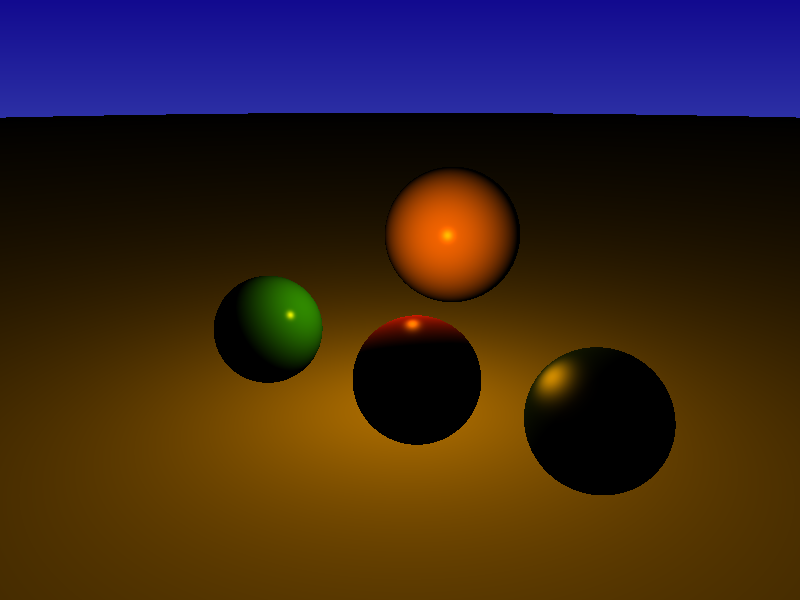
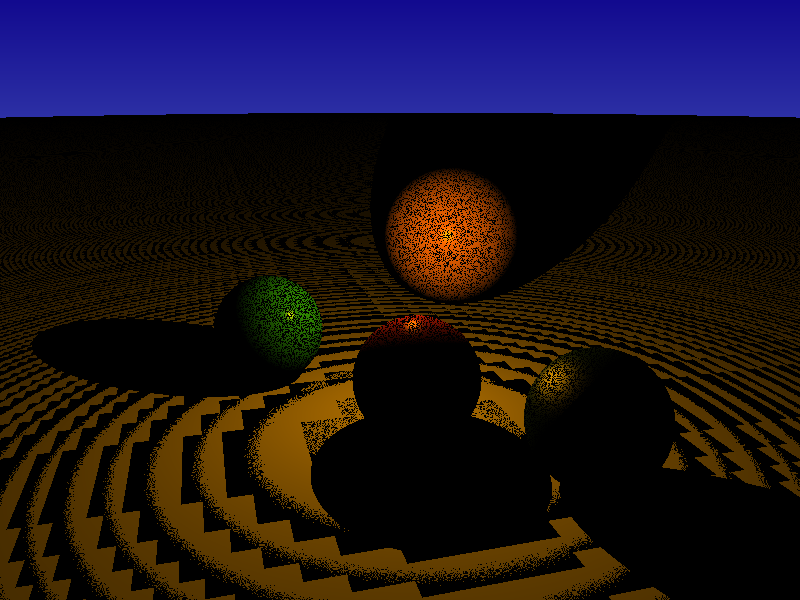
Project 7 done

diff --git a/include/bvhaccel.hpp b/include/bvhaccel.hpp
@@ -11,6 +11,9 @@ class LinearBVH{
 
         std::shared_ptr<Bounds3> box;
         std::shared_ptr<Bounds3> next;
+        bool leaf = false;
+
+        ~LinearBVH() = default;
 
 };
 
@@ -57,22 +60,46 @@ public:
             return false;
         }
 
-        bool hit_left = true;
-        bool hit_right =  false;
+        std::shared_ptr<BvhAccel> aux = std::make_shared<BvhAccel>();
+        aux->box = box;
+        aux->left = left;
+        aux->right = right;
 
-        if(left == nullptr and right == nullptr){
-            if(*box.get() == s->bound){
-                return false;
+        BvhAccel * father;
+        
+        while(aux->left != nullptr and aux->right != nullptr){
+            if(aux->left != nullptr and aux->left->box->intersect_p(r, &t_min, &t_max)){
+                father = aux.get();
+                aux = aux->left;
+            } else if (aux->right != nullptr and aux->right->box->intersect_p(r, &t_min, &t_max)) {
+                father = aux.get();
+                aux = aux->right;
             } else {
-                return box->geo->intersect_p(r);
+                return false;
             }
         }
 
-        hit_left = left->hit_p(r, t_min, t_max, s);
-        if(!hit_left){
-            hit_right = right->hit_p(r, t_min, t_max, s);
-        }
-        return hit_left || hit_right;
+
+        //std::cout << "Chegou aq" << std::endl;
+        return aux->box->geo->intersect_p(r);
+
+
+        // bool hit_left = true;
+        // bool hit_right =  false;
+
+        // if(left == nullptr and right == nullptr){
+        //     if(*box.get() == s->bound){
+        //         return false;
+        //     } else {
+        //         return box->geo->intersect_p(r);
+        //     }
+        // }
+
+        // hit_left = left->hit_p(r, t_min, t_max, s);
+        // if(!hit_left){
+        //     hit_right = right->hit_p(r, t_min, t_max, s);
+        // }
+        // return hit_left || hit_right;
         
     }
 
@@ -83,7 +110,7 @@ public:
     std::shared_ptr<Bounds3> box = nullptr;
     //std::vector<std::shared_ptr<GeometricPrimitive>> g;
 
-    void printBVH()
+    void printBVH(int &i)
     {
         if (left == nullptr and right == nullptr)
         {
@@ -95,8 +122,9 @@ public:
         }
 
         if (left != nullptr)
-        {
-            left->printBVH();
+        {   
+            int c = 0;
+            left->printBVH(c);
             // std::cout << "Imprimindo box" << std::endl;
             // left->box->pMin.print();
             // left->box->pMax.print();
@@ -104,8 +132,9 @@ public:
         }
 
         if (right != nullptr)
-        {
-            right->printBVH();
+        {   
+            i+=1;
+            right->printBVH(i);
             // std::cout << "Imprimindo box" << std::endl;
             // right->box->pMin.print();
             // right->box->pMax.print();
@@ -113,34 +142,25 @@ public:
         }
     }
 
-    void LinearizeBVH(std::vector<std::shared_ptr<LinearBVH>> linear)
+    void LinearizeBVH(BvhAccel node, std::vector<LinearBVH> linear)
     {
-        std::shared_ptr<LinearBVH> l = std::make_shared<LinearBVH>();
-        l->box = box;
-
-        if (left != nullptr)
-        {
-            std::cout << "ADICIONOU LEFT" << std::endl;
-            left->LinearizeBVH(linear);
-            // std::cout << "Imprimindo box" << std::endl;
-            // left->box->pMin.print();
-            // left->box->pMax.print();
-            // std::cout << "finalizando box" << std::endl;
+        
+        if(node.box == nullptr){
+            return;
         }
 
-        if (right != nullptr)
-        {
-            l->next = right->box;
-            std::cout << "ADICIONOU RIGHT" << std::endl;
-            right->LinearizeBVH(linear);
-            // std::cout << "Imprimindo box" << std::endl;
-            // right->box->pMin.print();
-            // right->box->pMax.print();
-            // std::cout << "finalizando box" << std::endl;
+        LinearizeBVH(*node.left.get(), linear);
+        LinearBVH * l = new LinearBVH();
+        l->box = node.box;
+        if(node.right!= nullptr){
+            l->next = node.right->box;
+        } else if( node.right == nullptr and node.left == nullptr){
+            l->leaf = true;
         }
+        //std::cout << "adicionou" << std::endl;
+        linear.push_back(*l);
+        right->LinearizeBVH(*node.right.get(), linear);
 
-        //std::cout << "ADICIONOU" << std::endl;
-        linear.push_back(l);
     }
 };
 inline bool comparator(const std::shared_ptr<Bounds3> a, const std::shared_ptr<Bounds3> b)

diff --git a/include/integrator.hpp b/include/integrator.hpp
@@ -132,16 +132,16 @@ public:
 
                 // std::shared_ptr<Surfel> aux = std::make_shared<Surfel>();
                 //hittou = bvh->hit_p(shadow_ray, 0.0, MAXFLOAT, surfel);
-                for (int z = 0; z < bounds.size(); z++)
-                {   
-                    if(bounds[z] != surfel->bound){
-                        hittou = bounds[z]->geo->intersect_p(shadow_ray);
-                    }
-                    if (hittou)
-                    {
-                        break;
-                    }
-                }
+                // for (int z = 0; z < bounds.size(); z++)
+                // {   
+                //     if(bounds[z] != surfel->bound){
+                //         hittou = bounds[z]->geo->intersect_p(shadow_ray);
+                //     }
+                //     if (hittou)
+                //     {
+                //         break;
+                //     }
+                // }
               
                 if (!hittou)
                 {

diff --git a/include/api.hpp b/include/api.hpp
@@ -382,10 +382,13 @@ void Api::render()
 
     BvhAccel ba;
     auto a = ba.buildTree(bounds, 0, bounds.size());
-    // std::vector<std::shared_ptr<LinearBVH>> lista;
-    // ba.LinearizeBVH(lista);
+    int i = 0;
+    a->printBVH(i);
+    std::cout << "Tamanho: " << i << std::endl;
+    // std::vector<LinearBVH> lista;
+    // ba.LinearizeBVH(*a.get(), lista);
 
-    //std::cout << "Tamanho " << lista.size() << std::endl;
+    // std::cout << "Tamanho " << lista.size() << std::endl;
     // std::cout << "Printando árvore" << std::endl;
     // a->printBVH();
 
